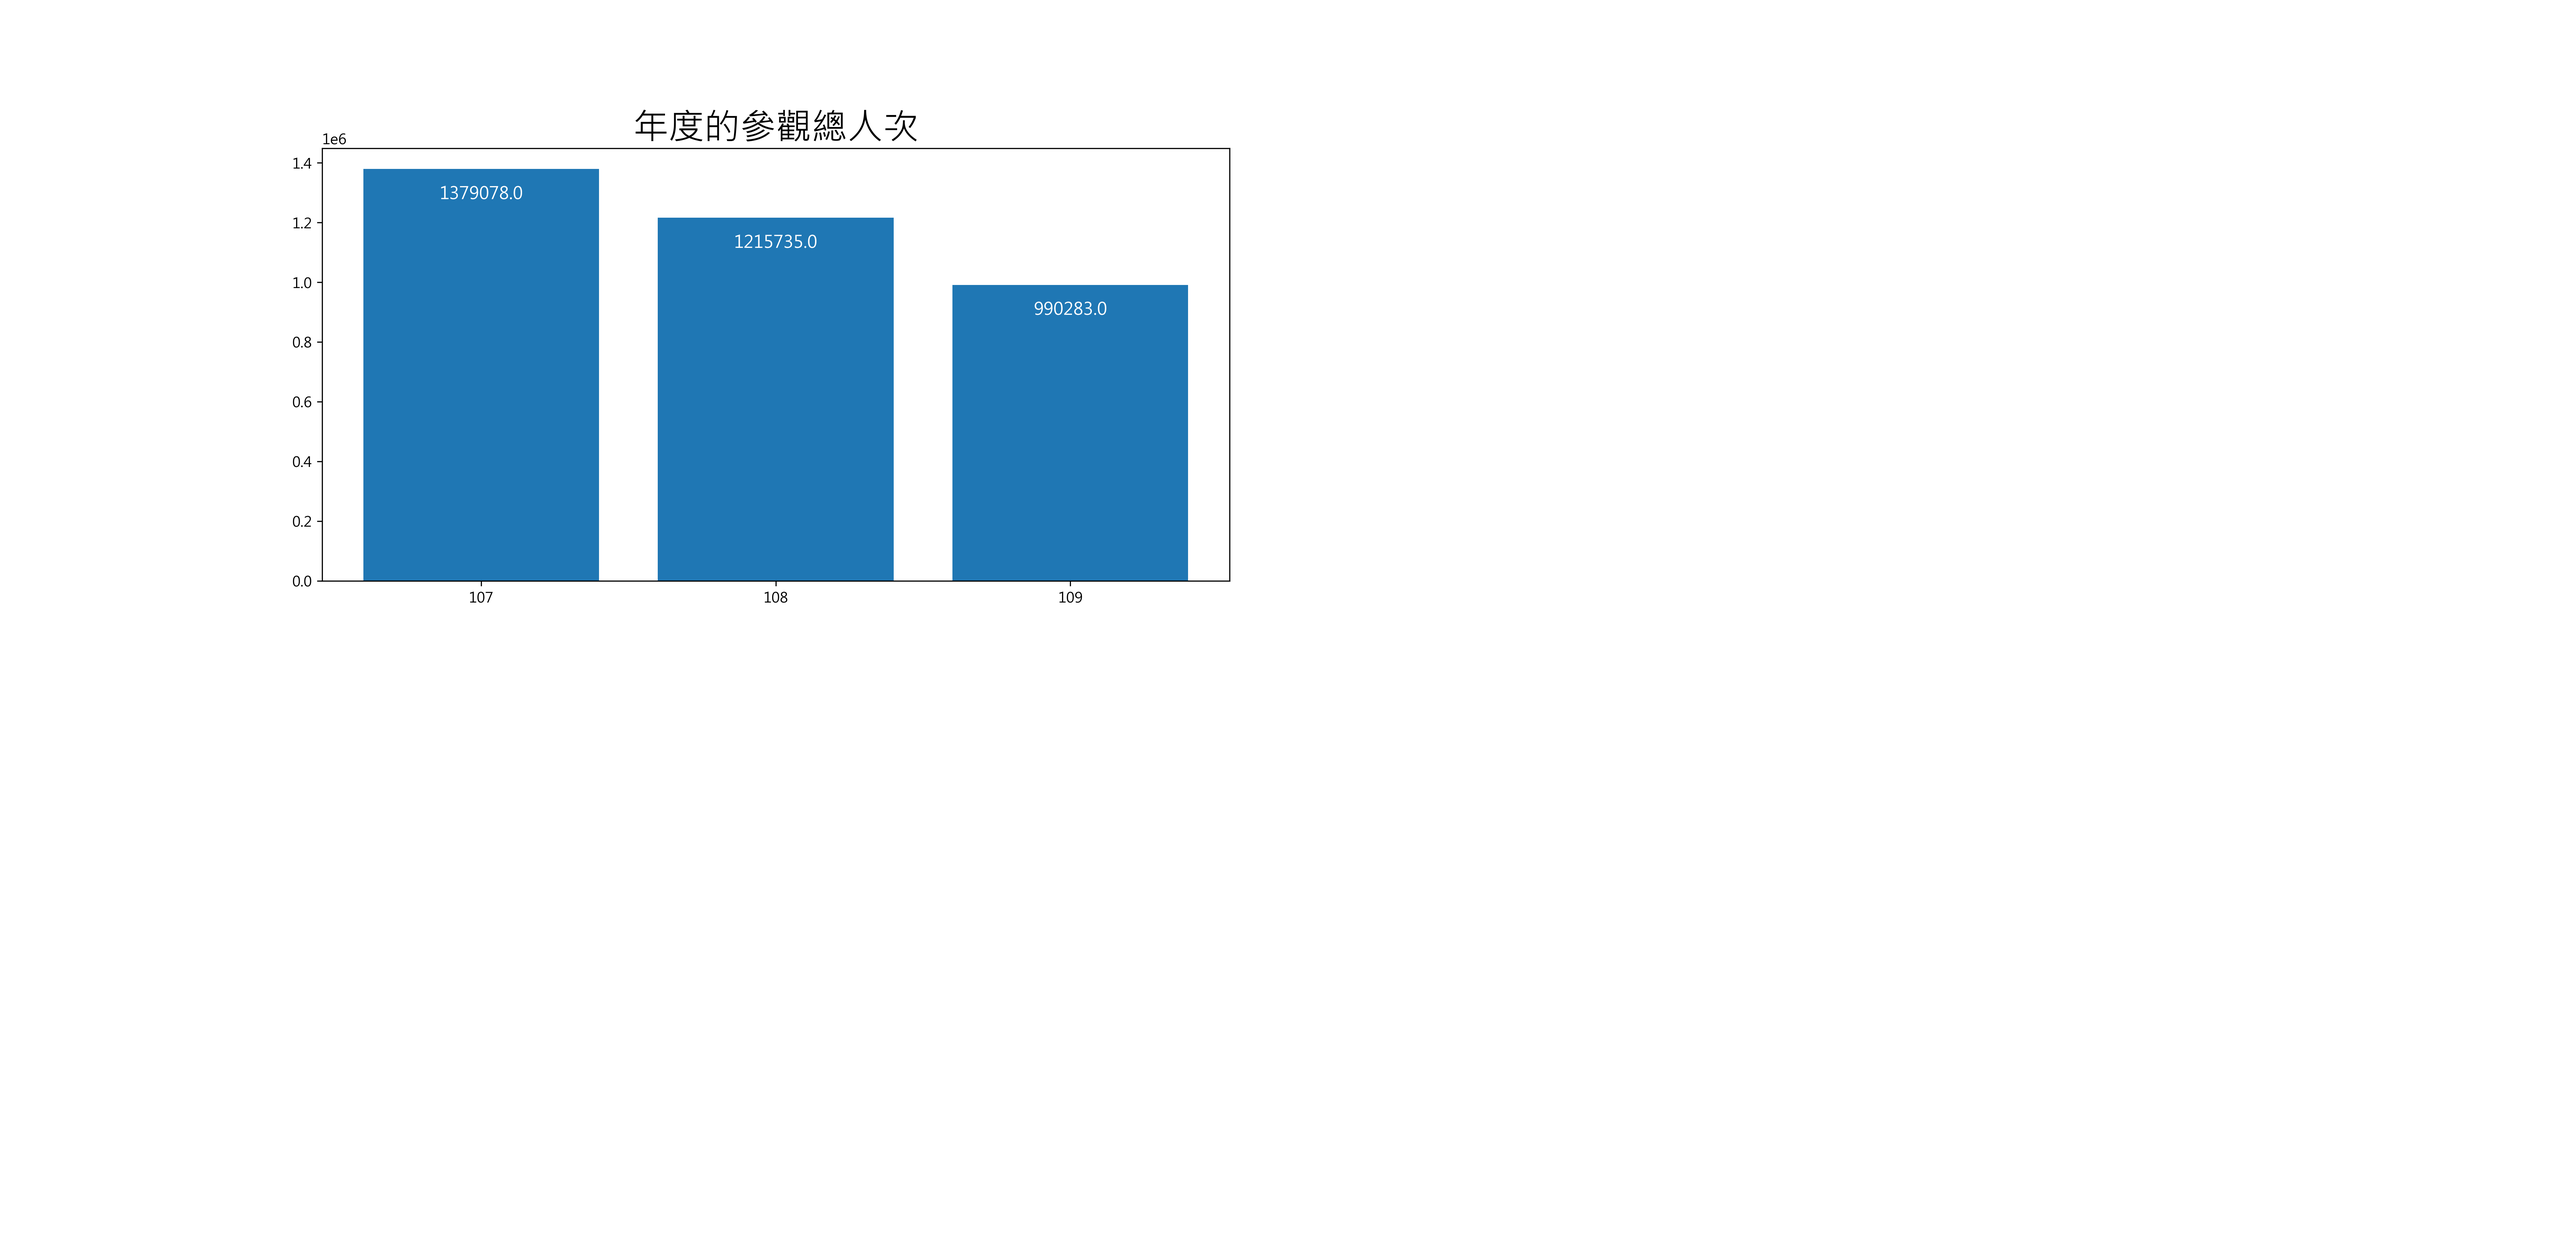
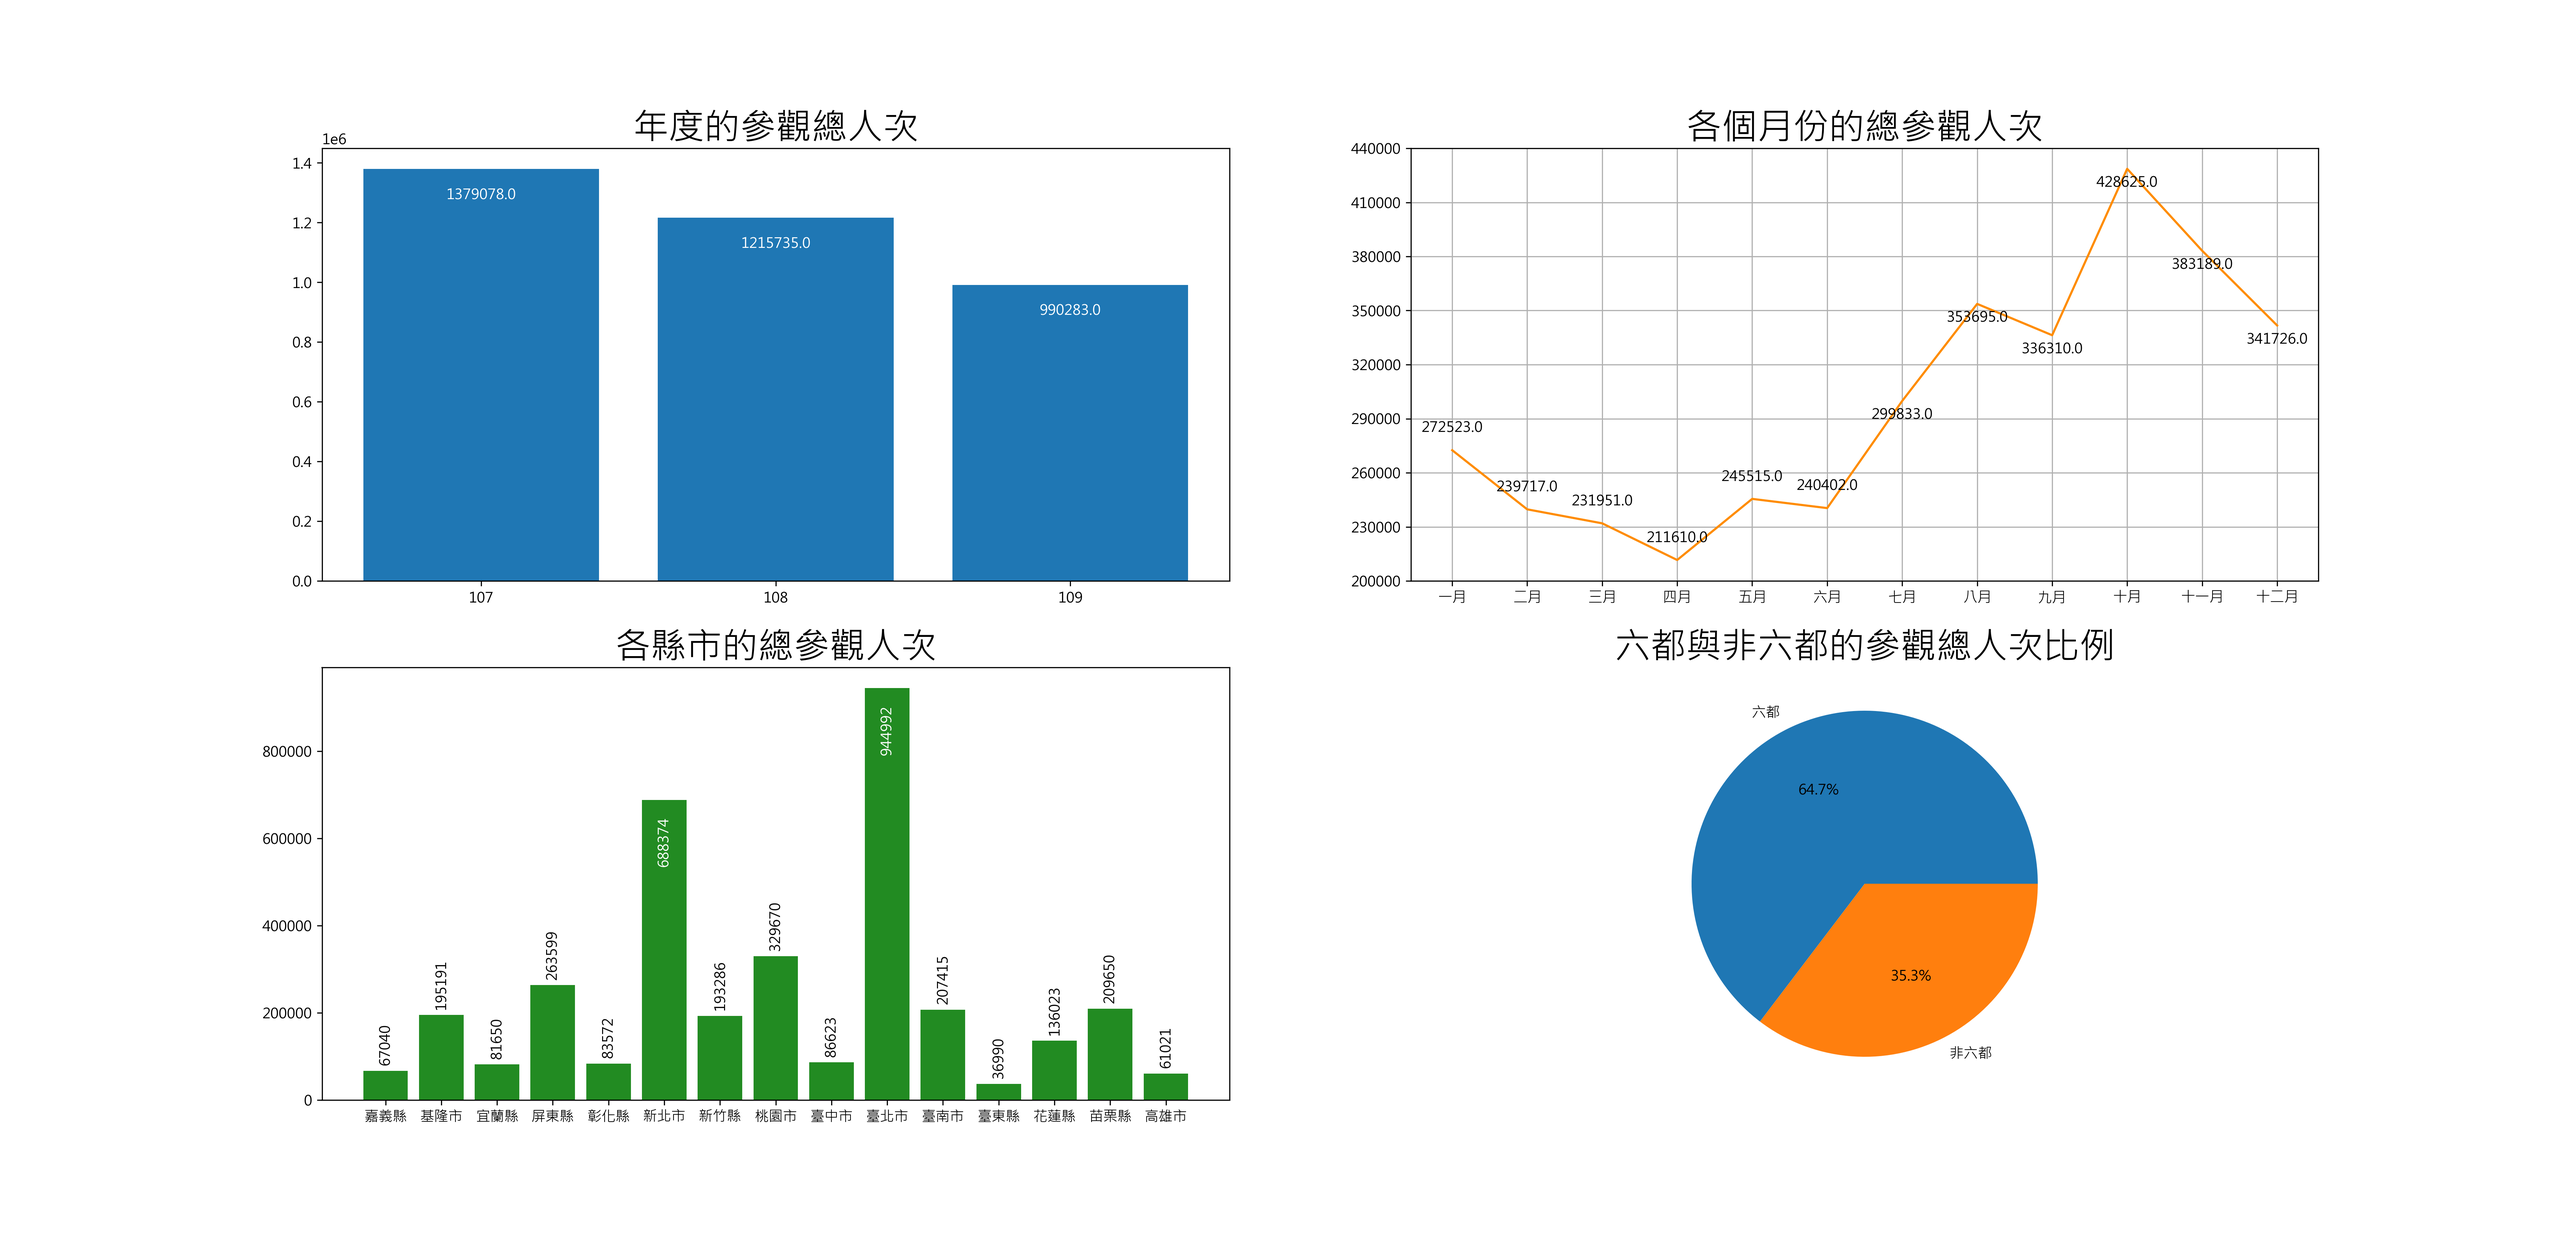
Add last diagram

diff --git a/museum-headcount.py b/museum-headcount.py
@@ -1,3 +1,4 @@
+# 107~109 地方文物館參觀人數統計
 # 資料來源：https://data.gov.tw/dataset/164265
 import pandas as pd
 import matplotlib.pyplot as plt
@@ -10,6 +11,10 @@ df = df.loc[df['民國年'] <= 109]
 annual = df.groupby('民國年')['人次'].sum()
 month = df.groupby('月份')['人次'].sum()
 city = df.groupby('縣市')['人次'].sum()
+sixSpecial = ['臺北市', '高雄市', '新北市', '臺中市', '臺南市', '桃園市']
+sum1 = city[sixSpecial].sum()
+sum2 = city.sum() - sum1
+lbl = ['六都', '非六都']
 
 plt.figure(figsize=(25, 12), dpi=300)
 plt.rcParams['font.sans-serif'] = 'Microsoft JhengHei'
@@ -41,5 +46,9 @@ for i in city.index:
     plt.text(i, city[i]-40000, int(city[i]), ha='center', va='top', rotation='vertical', color='w')
   else:
     plt.text(i, city[i]+20000, int(city[i]), ha='center', rotation='vertical')
+#4
+plt.subplot(2, 2, 4)
+plt.title('六都與非六都的參觀總人次比例', fontsize=25)
+plt.pie([sum1, sum2], labels=lbl, autopct='%.1f%%')
 
 plt.savefig('地方文物館參觀人數統計.png')
